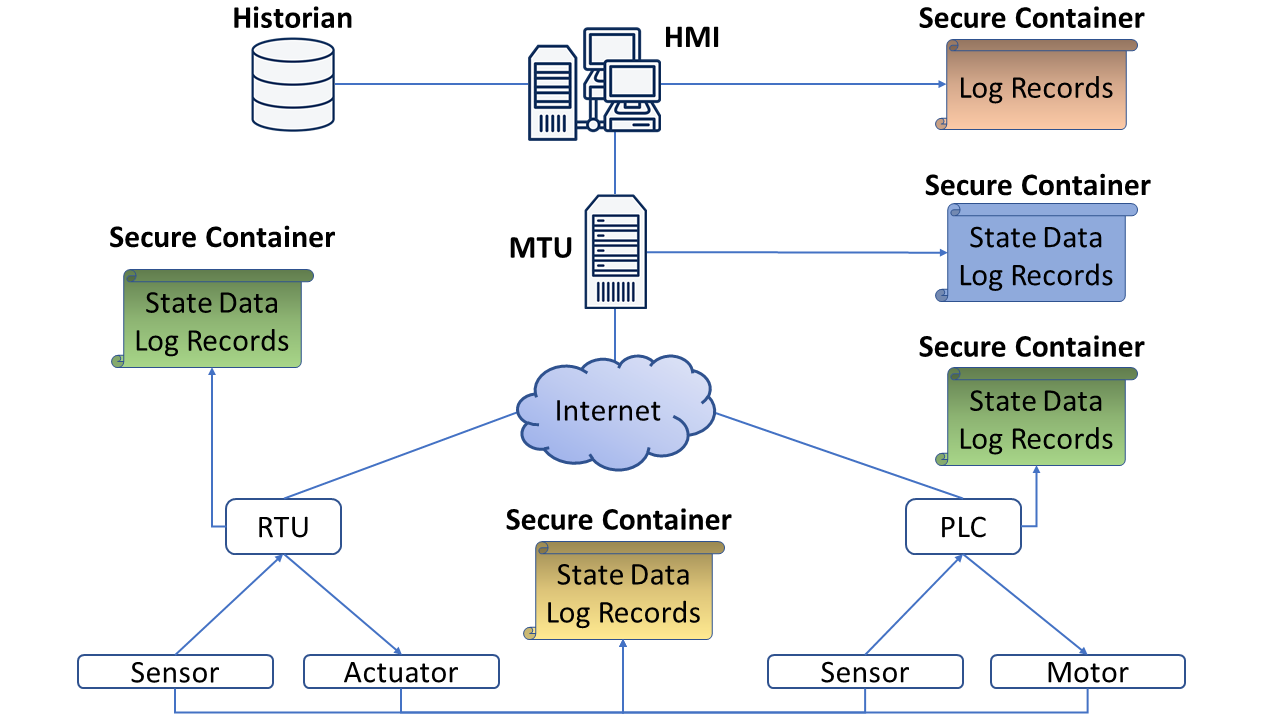
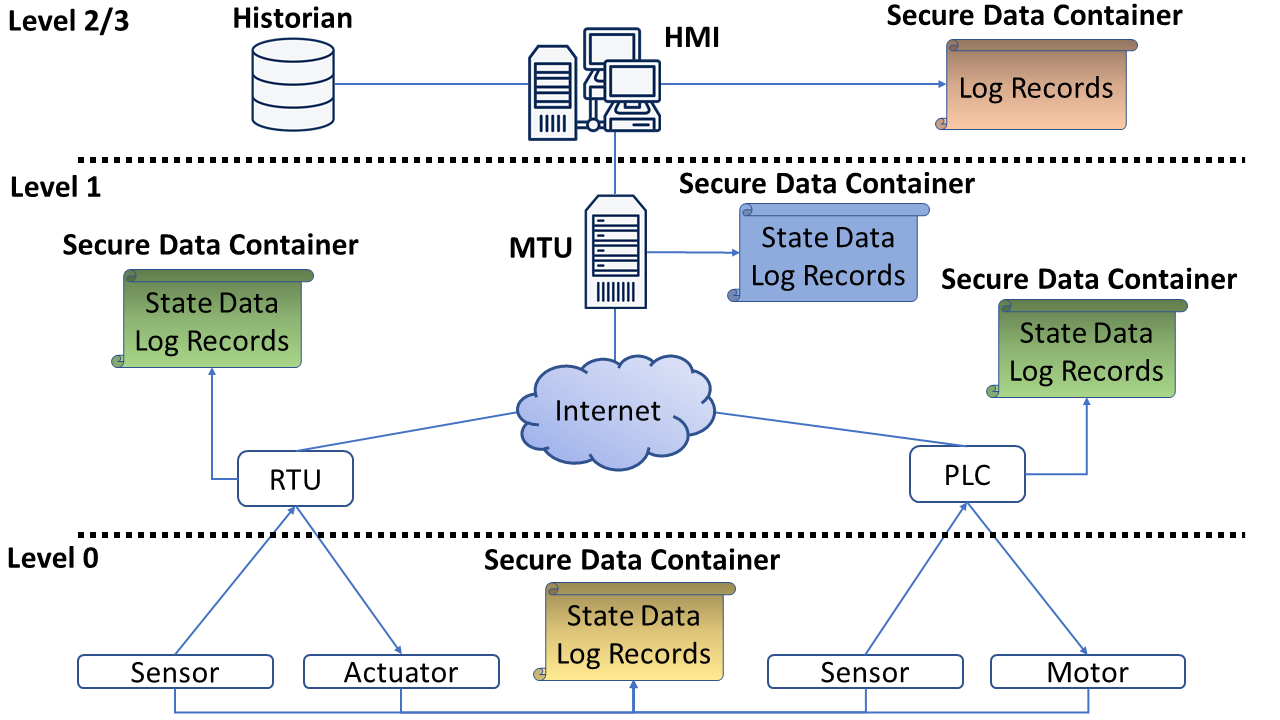
latest

diff --git a/conference_041818.tex b/conference_041818.tex
@@ -59,8 +59,7 @@ mrogers, dulybyshev@tntech.edu}
 \maketitle
 
 \begin{abstract}
-Security breaches in Industrial Control Systems may have a significant impact on human lives and may cause significant financial loss. For that reason, Detecting intrusions and anomalies in Industrial Control Systems at early stages is important to prevent process failure. Detection of intrusion based on network data alone might not be sufficient. Operator error, device or equipment failure, and other non-network events could lead to a critical state. As a result, these events can indirectly lead to anomalous network traffic, and thus the number of false positives and false negatives generated by the intrusion detection system rises. In this paper, we propose a novel approach of using device state information, stored in a secure data container, to improve the detection accuracy. Our methodology allows to detect anomalies as well as their root causes.  
-To detect a root cause of an anomaly, providing confidentiality and integrity for device state, which we record as log records, is essential. In this paper, we also present a secure data container that is used to protect log records for devices in cyber-physical systems. Data protection is provided in transit and at rest. Our data container supports role-based and attribute-based access control, so that every party can access only those data subsets for which the party is authorized. Furthermore, we address the insider threat by detecting several types of data leakages that can be made by malicious authorized insiders. 
+Detecting intrusions and anomalies in Industrial Control Systems at early stages is important to prevent process failure. Detection of intrusion based on network data alone might not be sufficient. Operator error, device or equipment failure, and other non-network events could lead to a critical state. As a result, these events can indirectly lead to anomalous network traffic, and thus the number of false positives and false negatives generated by the intrusion detection system rises. In this paper, we propose a novel approach of using device state information, stored in a secure data container, to improve the detection accuracy. Our methodology allows to detect anomalies as well as their root causes, which is essential. We use a secure data container to store log records for devices in cyber-physical systems. Secure data container provides protection for log records in transit and at rest. Our data container supports role-based and attribute-based access control and protects against insider threats. 
 \end{abstract}
 
 \begin{IEEEkeywords}
@@ -69,35 +68,34 @@ intrusion detection, data privacy, industrial control systems, SCADA systems
 
 \section{Introduction}
 Industrial Control System (ICS) is the technology used to automate the manufacturing process. It is responsible for controlling and managing large number of field devices. The manufacturing industry has seen a huge rise in the adoption of ICS in recent years. The fierce competition among the companies has been the main catalyst for this revolution in the manufacturing industry. According to the study report published by  Market Research Future (MRFR), the industrial control system market will be growing even more in the future~\cite{c1}. A lot of these industrial control systems are deployed in critical infrastructures such as the smart grid, health care systems, water purification, and nuclear plants. As a result, security breaches and attacks can have significant impact on human lives as well as be very costly. Securing these systems has become a priority as a result of the increasing number of attacks in these domain. 
-\par Even though many approaches for intrusion detection in ICS are present in the literature, we observe that most of these solutions focus on the network traffic data generated in the ICS. We propose to use device state information along with network data packets to detect intrusions. Consider Figure~\ref{SICSA} which is based on the Purdue Enterprise Reference Architecture~\cite{}. If intrusion is detected in a data network on level 2, we query device at a lower level 1 to check  device state related to the network data that caused intrusion alert on a higher level. Our approach verifies the alert generated by an Intrusion Detection System (IDS) by validating the suspicious network data packet against the device state information. The algorithm verifies whether suspicious network packets that caused the IDS alert is consistent with the state of the lower level devices. Thus, our approach can not only to detect the anomaly, but also find the root cause of the anomaly. 
+\par Even though many approaches for intrusion detection in ICS are present in the literature, we observe that most of these solutions focus on the network traffic data generated in the ICS. We propose to use device state information along with network data packets to detect intrusions. Consider Figure~\ref{SICSA} which is based on the Purdue Enterprise Reference Architecture~\cite{c11}. If intrusion is detected in a data network on level 2, we query device at a lower level 1 to check  device state related to the network data that caused intrusion alert on a higher level. Our approach verifies the alert generated by an Intrusion Detection System (IDS) by validating the suspicious network data packet against the device state information. The algorithm verifies whether suspicious network packets that caused the IDS alert is consistent with the state of the lower level devices. Thus, our approach can not only to detect the anomaly, but also find the root cause of the anomaly. 
 
-Device state data is stored as log records in a secure data container, which guarantees confidentiality and integrity of data that is used to detect anomaly root cause. The secure data container provides data protection in transit and at rest. Data along with access control policies are stored in the container in encrypted form. Separate encryption keys, one per data subset, are generated on-the-fly and are not stored inside the container nor on any Trusted Third Party (TTP). The data container supports role-based and attribute-based access control, so that every party can access only those data subsets for which the party is authorized. A Central Authority (CA) is not required for recipient key generation nor for access control policy enforcemen.      
+Device state data is stored as log records in a Secure Data Container (SDC), which guarantees confidentiality and integrity of data that is used to detect anomaly root cause. SDC provides data protection in transit and at rest. Data along with access control policies are stored in the container in encrypted form. Separate encryption keys, one per data subset, are generated on-the-fly and are not stored inside the container nor on any Trusted Third Party (TTP). SDC supports role-based and attribute-based access control. Central Authority is not required for recipient key generation or for access control policy enforcement. Furthermore, the SDC protects against insider threats and can detect several types of data leakages.      
 \par The rest of the paper is organized as follows. Section II presents an overview of related work. In Section III the core design of the implementation is presented. Preliminary experimental results are discussed in Section IV. Section V discusses the future work and section VI concludes the paper.  
 
 \section{Related Work}
+The following related work focuses on the state of the art of intrusion detection systems (IDS).  The IDS is not only the a popular software-based solution that is in practical use, but also has been a focus of research in securing industrial control systems.
 
-Concerns over the security of industrial control system has led many researchers to look for various security solutions to protect the network. The following related work focuses on the state of the art of intrusion detection systems (IDS).  The IDS is not only the a popular software-based solution that is in practical use, but also has been a focus of research in securing industrial control systems.
-
-\par Morris, Vaughn, and Dandass~\cite{c2} proposed an intrusion detection system that focuses on devices that are connected with serial link. The authors proposed a Snort-based intrusion detection system for MODBUS RTU/ASCII communication. The MODBUS traffic is converted to MODBUS TCP/IP and sent to Snort for rule matching. Snort was implemented in two setup, one was in passive mode where the traffic is only monitored by Snort and in inline setup includes rules for dropping packets. 
+\par Morris, Vaughn, and Dandass~\cite{c2} proposed an IDS that focuses on devices that are connected with serial link. The authors proposed a Snort-based IDS for MODBUS in both a passive mode and inline mode that dropped packets. 
 % {\color{red} MDR: Say what they found - what was the result of their research?  Also, it would be good to state its shortcoming as compared to our work.}
-A signature based intrusion detection system with state based rules and stand alone IDS rules was presented in a later work in \cite{c9}.
-\par A critical state analysis-based intrusion detection approach by Carcano et al. \cite{c4} in SCADA systems uses state information. In this approach the authors defined a language for system description and to represent states of the system. A software virtual image with software object representing all devices of the monitored system was used to monitor the evolution of system states. Critical states were defined with critical formulas. The intrusion detection system was implemented on the virtual image and if the current state was moving towards a critical state an alert was generated.
-However, both of the above mentioned approach requires expert domain knowledge to model normal and critical device sate. They also do not address the problem of integrity of the state information from devices which can be attacked. Our approach uses machine learning to identify important device state information and co-relate it with the network packets. Moreover, we use a secure container to store the device state information which provides data privacy and integrity.
-\par A multi agent intrusion detection system was proposed by Tsan and Kwong \cite{c3} in industrial network. They implemented the unsupervised Ant Colony Clustering Model (ACCM) in the "decision agent" that is responsible for learning and classification of prepossessed data. This implementation shows the improved performance ant-based clustering. The KDD-Cup99 dataset was used for the test evaluation with different clustering algorithms and feature extraction techniques. K-Means clustering achieves 89.17\% average detection rate and  4.29\% false positive rate with the Fast Independent Component Analysis (FastICA) feature extraction. A false alarm nearly five per cent of the time could lead to disastrous consequences.
+A signature based IDS with state based rules and stand alone IDS rules was presented in a later work in \cite{c9}.
+\par A critical state analysis-based intrusion detection approach by Carcano et al. \cite{c4} in SCADA systems uses state information. A software virtual image with software object representing all devices of the monitored system was used to monitor the evolution of system states. The IDS was implemented on the virtual image and alert was triggered if the current state was critical or moving towards a critical state.
+However, both of the above mentioned approaches require expert domain knowledge to model normal and critical device state. They also do not address the problem of integrity of the state information from devices which can be attacked. Our approach uses machine learning to identify important device state information and co-relate it with the network packets. Moreover, we use a secure data container to store the device state information, which provides data privacy and integrity.
+\par A multi agent IDS was proposed by Tsan and Kwong \cite{c3} in industrial network. They implemented the unsupervised Ant Colony Clustering Model (ACCM) in the "decision agent" that is responsible for learning and classification of prepossessed data. This implementation shows the improved performance of ant-based clustering. K-Means clustering achieves 89.17\% average detection rate and  4.29\% false positive rate with the Fast Independent Component Analysis (FastICA) feature extraction. A false alarm nearly five per cent of the time could lead to disastrous consequences.
 % {\color{red} MDR: Here is a good time to make a statement about how such false postitives are high.  .}
 % {\color{red} MDR: state what is different from our work.  Example: they need domain experts to model device behavior.  These domain experts need to be experts on how the device hardware works, and also experts on the industrial process to understand how the device state can move toward critical states.  However, our approach will require no such domain expertise, but will use machine learning techniques to associate device state with network patterns.  Also point out that they do not not address the problem of the integrity of the device state, which can also be attacked.  We use secure data containers to ensure device state integrity.}
 
-Ranchal et al \cite{c10} proposed EPICS solution for web services to protect data throughout the service interaction lifecycle. This solution expands the Active Bundle concept [1] for data protection. Data are stored and transferred together with the access control policies and with the data disclosure monitor. Our solution for secure data container expands the Active Bundle concept with the following capabilities:
-(a) detection of data leakages that can be made by authorized insiders;
-(b) more secure scheme for encryption key generation;
-(c) support of data container in the form of Excel file, which provides compatibility with Microsoft Office, used in many corporate IT infrastructures.  
+Ranchal et al \cite{c10} proposed EPICS solution for web services to protect data throughout the service interaction lifecycle. This solution expands the Active Bundle concept \cite{c12}, \cite{c13}, \cite{c14} for data protection. Data are stored and transferred together with the access control policies and with the data disclosure monitor. Our solution for SDC is similar to an Extended Attribute-Aware Active Bundle \cite{c6} and it expands the Active Bundle concept with the following capabilities: \\
+(a) detection of data leakages made by authorized insiders; \\
+(b) support of secure data container in the form of Excel file.  
+
+Awad, Lopez, and Rogers~\cite{c8} propose a framework for live memory forensics of level 0-1 devices by continually acquiring portions of volatile memory and monitoring changes.  This work's primary use is for memory forensics, but could be complementary to our work as a source for generating log records.
                                                                             
 \section{Core Design}
 % \subsection{Industrial Control Systems Security}
 %%Industrial control system was initially designed to operate within a close environment and manage the overall system. However, this has changed as the ICS network is now globally connected via the internet technology. The global connection has a lot of benefits that includes managing multiple field sites with thousands of devices in different location from one control center, faster data access and and inseparability among devices with different communication protocols. It also exposed the industrial control system to all the vulnerabilities and security threats that exists in the commercial network.Communication among the main components such as programmable logic controller (PLC), supervisory control and data acquisition (SCADA), Control devices is what makes this whole system functional. The communication protocols for these components are not similar to the typical commercial network protocols. Security was not a big concern when these protocols were designed as the system was kept isolated from the outside world. 
-Initially, industrial control systems were constructed in a local context.  In other words, processes were controlled locally and had limited access.  However, as processes became more complex and business needs grew, local control and data access became too limiting.  Therefore, to provide wide access to data and control, devices were connected to wide area networks, and eventually, to the the Internet.
-
-Unfortunately, the unlimited access of the Internet made the control systems vulnerable to attacks, and those protocols and device features that were initially designed for controlled local access had little or no security.  Furthermore, retrofitting existing devices with new protocols and security features is often not practical because the devices are low power and cannot implement the security algorithms given their real-time constraints, or would require major rewrites of software or hardware upgrades, which would be prohibitively expensive.
+Initially, ICS were designed for local processes and isolated from Wide Area Networks (WANs) and, therefore, had little or no security. However, as processes became more complex and business needs grew, providing connectivity to WANs became necessary. 
+Unfortunately, the unlimited access of the Internet made the ICS vulnerable to attacks. Furthermore, retrofitting ICS devices with new secure communication protocols is too expensive. Likewise, field devices cannot run computationally intensive algorithms due to limited resources. 
 
 %\begin{figure}[htbp]
 %\centering
@@ -108,36 +106,31 @@ Unfortunately, the unlimited access of the Internet made the control systems vul
 
 Therefore, Intrusion Detection Systems have become a popular security method for detecting attacks.  An IDS can be added to an existing network at a strategic point without needing to modify existing devices.
 %Intrusion detection system is a great method for attack detection and prevention in the commercial network by monitoring network traffic with rule based or anomaly based approach. 
-However, in the industrial network it is not always enough to just monitor the network traffic. For example, a sequence of (valid) control commands, device failures, faulty raw materials, etc. could lead to a critical situation in the process.  This critical situation will likely result in unusual network traffic as the control devices attempt to notify the process control personnel.   As a result, false positives indicating that the network is being attacked are generated by the IDS.  Believing that a network attack is underway, the process control personnel might not respond correctly to the critical state, which could have disastrous results. 
+However, in the industrial network it is not always enough to just monitor the network traffic. For example, a sequence of (valid) control commands, device failures, faulty raw materials, etc. could lead to a critical situation in the process.  This critical situation will likely result in unusual network traffic as the control devices attempt to notify the process control personnel. As a result, false positives indicating that the network is being attacked are generated by the IDS.  Believing that a network attack is underway, the process control personnel might not respond correctly to the critical state, which could have disastrous results. 
 
-We propose a novel approach where the IDS can validate network traffic with the help from the device generating the traffic.  Log records of device state information is created and stored. The device state information is kept in a secure container which can be access upon request. Machine learning algorithms will learn what device state is associated with which network communication patterns, and provide this information as a database to the IDS. The IDS will monitor network patterns and, when an anomaly is suspected, can query the secure containers for involved devices, and the database, to validate its suspicions. We call this a secure industrial control system architecture and it is demonstrated in Figure~\ref{SICSA}. 
+We propose a novel approach where the IDS can validate network traffic with the help from the device generating the traffic. Log records of device state information are created and stored. The device state information is kept in an SDC which can be accessed upon request. Machine learning algorithms will learn what device state is associated with which network communication patterns, and provide this information as a database to the IDS. The IDS will monitor network patterns and, when an anomaly is suspected, can query SDCs for involved devices, and the database, to validate its suspicions. Secure ICS architecture is illustrated in Figure~\ref{SICSA}. 
+
+\begin{figure}[htbp]
+\centering
+\centerline{\includegraphics [width=.5\textwidth]{sec_arch.png}}
+\caption{Secure Industrial Control System Architecture}
+\label{SICSA}
+\end{figure}
+
 %%The architecture has four major components:
-The architecture has five major components that are described as follows.
-
-%%\begin{enumerate}[label=(\alph*)]
-%%\item Offline Tools for Intrusion Detection
-%%\item SCADA components
-%%\item Secure Container
-%%\item Intrusion Detection Process
-%%\end{enumerate}
-%%\subsection{Offline Tools for Intrusion Detection}
+Secure ICS has five major components, illustrated in Figure~\ref{sec_ics}, that are described as follows.
 
 % {\color{red} Ok, so following is what I think we need to describe:  First, all components feed into the secure data container component.  That component provides a secure mechanism for storing and retrieving data for all the other componenents in the system.  The  Embedded component runs on the SCADA devices and collects device state.  It can do this in a miriad of ways, including sampling, logging. etc.  It produces a log file that is stored in a secure data container.  The State identification module uses log records of state stored in a secure container to produce an image that represents an instantaneous state of the system that likely results in a change in network state.  The training component trains  offline.  Its training accomplishes two goals.  One is learning what state information is most likely to result in significant network traffic pattern changes (this information is used by the state identification module), and the other is learning what device state produces particular network state. So, we need to restructure/rewrite the description below to reflect this.  See my simplistic picture:}
 % \includegraphics [width=.4\textwidth]{secscada.png}
+\subsection{Embedded Components}
+The {\em embedded components} of the system will monitor ICS devices in real time, create log records, and transfer the log records to the secure data container. Two modules are required to execute these actions. The first module is the \textit{\textbf{State Monitor}} and the other module is called \textit{\textbf{State Router}}. The state monitor module is responsible for real time monitoring of the device state. It can collect device state information in a many of ways, including sampling, logging the . The device state information collected by the state monitor module will be transferred by the state router module to the secure container. 
+
 \begin{figure}[htbp]
 \centering
 \centerline{\includegraphics [width=.5\textwidth]{sec_scada.png}}
-\caption{Secure SCADA}
-\label{Sec_scada}
-%
+\caption{Components of Secure Industrial Control System }
+\label{sec_ics}
 \end{figure}
-
-\subsection{Embedded Components}
-The {\em embedded components} of the system will monitor SCADA devices in real time, create log records, and transfer the log records to the secure data container. Two modules are required to execute these actions. The first module is the \textit{\textbf{State Monitor}} and the other module is called \textit{\textbf{State Router}}.
-
-The state monitor module is responsible for real time monitoring of the device state. It can collect device state information in a many of ways, including sampling, logging the .
-
-The device state information collected by the state monitor module will be transferred by the state router module to the secure container. 
 
 %%This node can perform security analysis to identify if the device is compromised.
 
@@ -145,86 +138,72 @@ The device state information collected by the state monitor module will be trans
 This system component of the architecture is responsible to identify important information about the state of the device. This module uses the information stored in the secure container to produce an image that represents an instantaneous state of the system that likely results in a change of the network data. 
 
 \subsection{Secure Data Container}
-Our proposed solution for protecting data in transit and at rest with providing leakage detection, as well as role-based and attribute-based access control, relies on Secure Mobile Protected Agent with Data (SMPAD). The idea was inspired by an Active Bundle concept [2], [3]. SMPAD is a self-protecting data container that incorporates sensitive data in encrypted form with watermarks, access control policies, metadata, provenance data collector, policy and attribute enforcement kernel. SMPAD can be used to store log files as well as sensor data snapshots. Each separate data subset is encrypted with separate encryption key, generated on-the-fly for each client’s role based on the unique information from the SMPAD execution control flow path. The access control model relies on role-based and attribute-based access control model and guarantees that a client will be able to access only those data subsets from a data container for which the client is authorized [4]. Data container provides tamper-resistance and data integrity. Moreover, SMPAD can detect several types of data leakages that can be made by authorized insiders [1]. The novelty of the proposed solution is that it works in both centralized and decentralized peer-to-peer network architectures. Central Authority (CA) is not required neither for data recipient’s key generation nor for access control policy enforcement.
+Our proposed solution for data protection in transit and at rest with providing leakage detection, as well as role-based and attribute-based access control, relies on Secure Data Container (SDC). The SDC concept was inspired by an Active Bundle  \cite{c12}, \cite{c13}, \cite{c14}, \cite{c15} and an Extended Attribute-Aware Active Bundle (EA3B) \cite{c6} concepts. SDC is a self-protecting data container that incorporates data in encrypted form with watermarks, access control policies, metadata, policy and attribute enforcement kernel - see Figure ~\ref{sdc}. Compared to EA3B, SDC relies on more secure data access mechanism that does not use different TCP/IP port numbers, visible in http get request, for different web services. In addition to Java Executable Archive (JAR), used in AB \cite{c14}, \cite{c15} and EA3B \cite{c6}, SDC implementation as an Excel table with encrypted worksheets is supported. Thus, SDC that stores log records as well as sensor data snapshots, provides an easier integration into existing IT infrastructures, compared to EA3B. Each separate data subset is stored as a separate worksheet in Excel file encrypted with separate AES key that is generated on-the-fly when a client requests data from SDC. 
 
 \begin{figure}[htbp]
 \centering
-\centerline{\includegraphics [width=6cm] {SMPAD-RelOK.png}}
-\caption{SMPAD: Secure Data Container}
+\centerline{\includegraphics [width=4.5cm, height=3.9cm]
+{SDC-Rel.png}}
+\caption{Secure Data Container}
 \label{sdc}
 \end{figure}
 
-%Denis:
-Author in \cite{c6} presents a similar concept, an Extended Attribute-Aware Active Bundle (EA3B). In this paper EA3B concept is improved to make it more secure and to provide easier data container integration into existing software systems. Instead of Java Executable Archive (JAR), data container is being implemented as an Excel table with encrypted worksheets and with Visual Basic macro that enforces access control policies. Using protected Excel table for secure data container makes our solution more compatible with existing software systems. Furthermore, different key generation scheme is applied. Symmetric AES 256 bit key is generated on-the-fly by a Key Derivation Function (KDF) that as an input takes the following parameters: 
-(a) hash value of metadata and access control policies 
-(b) hash value of VBA macro that enforces policies 
-(c) hash value of the X.509 certificate of the Authentication Server (AS)
-(d) hash value of a data subset name
-Each data subset is stored as a separate worksheet in Excel file with encrypted values. Worksheet is only visible for authorized parties. In contrast with EA3B, there are two ways to access data from data container: 
-(1) call API to read value from Excel cell 
-(2) open data container in Excel processor, such as Microsoft Office or OpenOffice. 
-
-- list set of supported attributes for ABAC
-- talk about data leakage detection via watermarks
-
+The access control model relies on role-based and attribute-based access control and guarantees that a client is able to access only those data subsets from SDC for which the client is authorized. SDC provides tamper-resistance and data integrity. Unauthorized modification of policy evaluation code or access control policies leads to wrong decryption key derivation. Moreover, same as EA3B, SDC can detect several types of data leakages that can be made by authorized insiders \cite{c6}. Data leakage detection relies on watermarks, embedded into each data subset and SDC. \\ 
+The proposed solution for data protection works in both centralized and decentralized peer-to-peer network architectures. Central Authority is not required neither for data recipient’s key generation nor for access control policy enforcement.
 
 \subsection{Training}
 We call this component the {\em training module} as these will be executed off-line to train the system such that it learns what device state results in particular network behavior. It will also identify the state information Which are most likely to make significant change in the network traffic. The information form the state identifying module is used here. The training module will be fed data collected from the state collection component and data collected by sampling the network. Machine learning algorithms are used to model the relationship between device state and network traffic and stored in  database. The IDS can query this information to verify its alerts.
 
- 
 \subsection{Intrusion Detection Process}
-Detection process is the most important component of the secure architecture. This process is responsible for intrusion detection in the SCADA environment. Typical intrusion detection system (IDS) uses the network packets to analyze the traffic and generate alert in case of any abnormal activity in the network. However, in SCADA environment, it is not necessary that an abnormal network behavior will always be the reason for intrusion. Often times a series of valid commands can lead to a critical situation in the SCADA environment that will cause serious damage to the infrastructure. The IDS will not generate any alert in that situation as the network traffic will not look suspicious or abnormal.
-\par The intrusion detection system in this component does not rely on only network traffic. If an alert is generated from abnormal activity in the network, IDS can query the information stored by the training module. The relative device state information according to the specific network data is used to verify the alert. This allows the IDS to reduce false positives. The IDS also receives real time information from the state router and performs analysis to detect compromised device. 
-\begin{figure}[htbp]
-\centering
-\centerline{\includegraphics [width=.5\textwidth]{sec_arch.png}}
-\caption{Secure Industrial Control System Architecture}
-\label{SICSA}
-%
-\end{figure}
+In order to detect unusual network behavior that is not caused by an intrusion, the IDS in this component does not rely on only network traffic. If an alert is generated from abnormal activity in the network, the IDS can query the information stored by the training module. The device state information related to the specific network data is used to verify the alert. This allows the IDS to reduce false positives. The IDS also receives real time information from the state router and performs analysis to detect compromised device. 
 
 \section{Evaluation}
-As a proof of concept that additional device information can help the intrusion detection system, we did a preliminary experiment. We used a dataset \cite{c7} created by the Mississippi State University SCADA Security Laboratory and Power and Energy Research laboratory, which is a collection of network data from a water storage tank system. The dataset is generated for performing intrusion detection to detect seven different attack scenario. it was created for WEKA \cite{c8}, a machine learning tool. Based on the description of the process, we annotated the network trace with data representing sane device state for the network data being generated. We used Naive Bayes algorithm to create a model with the new dataset. The added information helps the machine learning algorithm to increase the true positive rate significantly. This shows that specific information related to network packet can be helpful for machine learning techniques used in intrusion detection. The true positive (TP) rate for attack detection by the algorithm almost doubled. The comparison is shown in Figure ~\ref{eval-anomaly}.
+As a proof of concept that additional device information improves IDS results, we did a preliminary experiment. We used a dataset \cite{c7} created by the Mississippi State University SCADA Security Laboratory and Power and Energy Research laboratory, which is a collection of network data from a water storage tank system. The dataset is generated for performing intrusion detection to detect seven different attack scenarios.
 \begin{figure}[htbp]
 \centering
-\centerline{\includegraphics [width=.5\textwidth]{chart.jpg}}
+\centerline{\includegraphics [width=.3\textwidth, height=4cm]{chart.jpg}}
 \caption{TP rate for Attack Detection in Water Storage Dataset}
 \label{eval-anomaly}
-%
 \end{figure}
-%Denis
+Based on the description of the process, we annotated the network trace with data representing sane device state for the network data being generated. We used Naive Bayes algorithm to create a model with the new dataset. The added information increases the machine learning algorithm's true positive rate significantly (75\%). The comparison is shown in Figure ~\ref{eval-anomaly}.
 
-Round-trip time for secure data container is measured with ApacheBench utility. 
-\begin{center}
-\begin{tabular}{ |c|c|c| } 
- \hline
-Hardware / Num. of policies & 4 policies & 8 policies \\ 
-RPi & 69.51 & 69.67 \\
-MacBook & 18.10 & 18.82 \\
- \hline
-\end{tabular}
-\end{center}
+We collected data request Round-Trip Time (RTT) by measuring the time starting from a web service's data request to SDC and ending with the receipt of the response from SDC. RTT is a sum of times spent for authentication, evaluation of access control policies and client’s attributes, decryption key derivation and data retrieval. ApacheBench utility (version 2.3) and web browser developer consoles (for Firefox and Chrome) were used for RTT evaluations. Web service (client), requesting data; Authentication Server and SDC are located on the same host to exclude network delays from RTT measurements. Experiments were conducted on two system configurations. \\ 
+1. Hardware: MacBook Pro, Intel Core i7 CPU @ 2.2 GHz, 16GB memory; OS: macOS Sierra 10.12.6. \\
+2. Hardware: ARMv7 Processor rev 4 @1.2GHz, RAM 1GB (Raspberry Pi 3 Model B); OS: Raspbian GNU/Linux 9.1 \\
+In our experiments, RTT was measured as an average for 50 requests for 16 bytes of data for SDC with 4 and 8 access control policies - see Figure ~\ref{eval-sdc}.
+
+\begin{figure}[htbp]
+\centering
+\centerline{\includegraphics [width=.3\textwidth, height=4cm]{SDC-Eval-Plat.png}}
+\caption{SDC Data Request Round-Trip Time}
+\label{eval-sdc}
+\end{figure}
+
+As it can be seen from Figure ~\ref{eval-sdc}, RTT strongly depends on hardware that hosts SDC, and slightly depends on number of access control policies in SDC. Typically, hardware on level 1 in the secure ICS architecture (see Figure ~\ref{SICSA}) has less computationally powerful hardware to host SDC than on levels 2 and 3. On level 1, represented as a Raspberry Pi, RTT decreases by 284\% for 4 policies and by 270.2\% for 8 policies in SDC. When number of access control policies in SDC is increased from 4 to 8, RTT increased by 0.23\% for Raspberry Pi and by 4\% for MacBook.     
 
 \section{Future Work}
-Our future goal is to identify machine learning algorithms to detect important artifacts that are responsible for triggering network data. A dataset will be generated to represent the relationship between the network data and the important device state data. We also plan to determine how to incorporate learned behavior into the intrusion detection system to improve its results and to reduce false positives. Furthermore, we plan to expand secure data container capabilities to provide guarantees for provenance data integrity. We explore blockchain-based approaches for collecting and storing provenance data.   
+We have implemented a framework for secure data transfer and storage that relies on secure data containers. We also have an experimental environment, which can be used to generate real-world log data. We did preliminary investigation on machine learning algorithms that can use to detect important artifacts that are responsible for triggering network data. In the future, a data set will be generated to represent the relationship between the network data and the important device state data. We also plan to determine how to incorporate learned behavior into the IDS to improve its results and to reduce false positives. Furthermore, we plan to expand secure data container capabilities to provide guarantees for provenance data integrity. We explore blockchain-based approaches for collecting and storing provenance data.   
 
 \section{Conclusion}
-
-
-
+In this paper, we presented a method to improve IDS true positive rate in ICS with extra information about device state. This extra information is securely stored and transferred to the IDS by employing a secure data container that protects log data and device state information in transit and at rest. We have proposed a system for securely collecting and transporting state data and machine learning techniques that use this data to improve IDS results. 
 
 
 \begin{thebibliography}{00}
-\bibitem{c1}Industrial Control Systems (ICS) Market 2018 Global Analysis, Industry Size, Share Leaders, Current Status by Major Key vendors and Trends by Forecast to 2023. https://www.marketwatch.com/press-release/industrial-control-systems-ics-market-2018-global-analysis-industry-size-share-leaders-current-status-by-major-key-vendors-and-trends-by-forecast-to-2023-2018-11-29
-\bibitem{c2}Morris, T., Vaughn, R., \& Dandass, Y. (2012). A retrofit network intrusion detection system for MODBUS RTU and ASCII industrial control systems. Proceedings of the Annual Hawaii International Conference on System Sciences, 2338–2345. https://doi.org/10.1109/HICSS.2012.78
-\bibitem{c3}Tsang, C. H., \& Kwong, S. (2005). Multi-agent intrusion detection system in industrial network using ant colony clustering approach and unsupervised feature extraction. Proceedings of the IEEE International Conference on Industrial Technology, 2005, 51–56. https://doi.org/10.1109/ICIT.2005.1600609
-\bibitem{c4}Carcano, A., Coletta, A., Guglielmi, M., Masera, M., Nai Fovino, I., \& Trombetta, A. (2011). A multidimensional critical state analysis for detecting intrusions in SCADA systems. IEEE Transactions on Industrial Informatics, 7(2), 179–186. https://doi.org/10.1109/TII.2010.2099234
-\bibitem{c5}Kiss, I., Genge, B., Haller, P., \& Sebestyen, G. (2014). Data clustering-based anomaly detection in industrial control systems. Proceedings - 2014 IEEE 10th International Conference on Intelligent Computer Communication and Processing, ICCP 2014, 275–281. https://doi.org/10.1109/ICCP.2014.6937009
-\bibitem{c6} Ulybyshev, Denis A, (2019) "Data Protection in Transit and at Rest with Leakage Detection". Ph.D. Thesis, Purdue University. https://doi.org/10.25394/PGS.8024345.v1
-\bibitem{c7}Morris, T. Srivastava, A., Reaves, B., Gao, W., Pavurapu, K., Reddi, R. A Control System Testbed to Validate Critical Infrastructure Protection Concepts. International Journal of Critical Infrastructure Protection (2011). Elseiver. doi:10.1016/j.ijcip.2011.06.005
-\bibitem{c8}Eibe Frank, Mark A. Hall, and Ian H. Witten (2016). The WEKA Workbench. Online Appendix for "Data Mining: Practical Machine Learning Tools and Techniques", Morgan Kaufmann, Fourth Edition, 2016.
-\bibitem{c9}Gao, W., \& Morris, T. (2014). On Cyber Attacks and Signature Based Intrusion Detection for Modbus Based Industrial Control Systems. Journal of Digital Forensics, Security and Law, 9(1). https://doi.org/10.15394/jdfsl.2014.1162
+\bibitem{c1}Industrial Control Systems (ICS) Market 2018 Global Analysis, Industry Size, Share Leaders, Current Status by Major Key vendors and Trends by Forecast to 2023. [Online] https://www.marketwatch.com/press-release/industrial-control-systems-ics-market-2018-global-analysis-industry-size-share-leaders-current-status-by-major-key-vendors-and-trends-by-forecast-to-2023-2018-11-29. Last accessed: Nov.2019
+\bibitem{c2}Morris, T., Vaughn, R., \& Dandass, Y. (2012). A retrofit network intrusion detection system for MODBUS RTU and ASCII industrial control systems. Proceedings of the Annual Hawaii International Conference on System Sciences, 2338–2345.
+\bibitem{c3}Tsang, C. H., \& Kwong, S. (2005). Multi-agent intrusion detection system in industrial network using ant colony clustering approach and unsupervised feature extraction. Proceedings of the IEEE International Conference on Industrial Technology, 2005, 51–56.
+\bibitem{c4}Carcano, A., Coletta, A., Guglielmi, M., Masera, M., Nai Fovino, I., \& Trombetta, A. (2011). A multidimensional critical state analysis for detecting intrusions in SCADA systems. IEEE Transactions on Industrial Informatics, 7(2), 179–186. 
+\bibitem{c5}Kiss, I., Genge, B., Haller, P., \& Sebestyen, G. (2014). Data clustering-based anomaly detection in industrial control systems. Proceedings - 2014 IEEE 10th International Conference on Intelligent Computer Communication and Processing, ICCP 2014, 275–281.
+\bibitem{c6} Ulybyshev, Denis A, (2019). "Data Protection in Transit and at Rest with Leakage Detection". Ph.D. Thesis, Purdue University.
+\bibitem{c7}Morris, T. Srivastava, A., Reaves, B., Gao, W., Pavurapu, K., Reddi, R. A Control System Testbed to Validate Critical Infrastructure Protection Concepts. International Journal of Critical Infrastructure Protection (2011). Elseiver.
+\bibitem{c8}Asmar Awad, R., Lopez, J., and Rogers M. (2019) Volatile Memory Extraction-Based Approach for Level 0-1 CPS Forensics. Accepted to 2019 IEEE International Symposium on Technologies for Homeland Security. 
+\bibitem{c9}Gao, W., \& Morris, T. (2014). On Cyber Attacks and Signature Based Intrusion Detection for Modbus Based Industrial Control Systems. Journal of Digital Forensics, Security and Law, 9(1). 
 \bibitem{c10}Ranchal, R., Bhargava, B., Angin, P., \& Othmane, L. B. (2018). Epics: A framework for enforcing security policies in composite web services. IEEE Transactions on Services Computing.
+\bibitem{c11} Williams, T. J. (1994). The Purdue enterprise reference architecture. Computers in industry, 24(2-3), 141-158.
+\bibitem{c12} Lilien, L., \& Bhargava, B. (2006). A scheme for privacy-preserving data dissemination. IEEE Transactions on Systems, Man, and Cybernetics-Part A: Systems and Humans, 36(3), 503-506.
+\bibitem{c13} Othmane, Lotfi Ben, and Leszek Lilien (2009). "Protecting privacy of sensitive data dissemination using active bundles." In 2009 World Congress on Privacy, Security, Trust and the Management of e-Business, pp. 202-213, IEEE.
+\bibitem{c14} Ranchal, Rohit (2015). "Cross-domain data dissemination and policy enforcement". Ph.D. Thesis, Purdue University.
+\bibitem{c15} Ulybyshev, D., Bhargava, B., Villarreal-Vasquez, M., Alsalem, A. O., Steiner, D., Li, L., \& Ranchal, R. (2017). Privacy-preserving data dissemination in untrusted cloud. In 2017 IEEE 10th International Conference on Cloud Computing (CLOUD) (pp. 770-773). IEEE.
 
 \end{thebibliography}
 \vspace{12pt}
